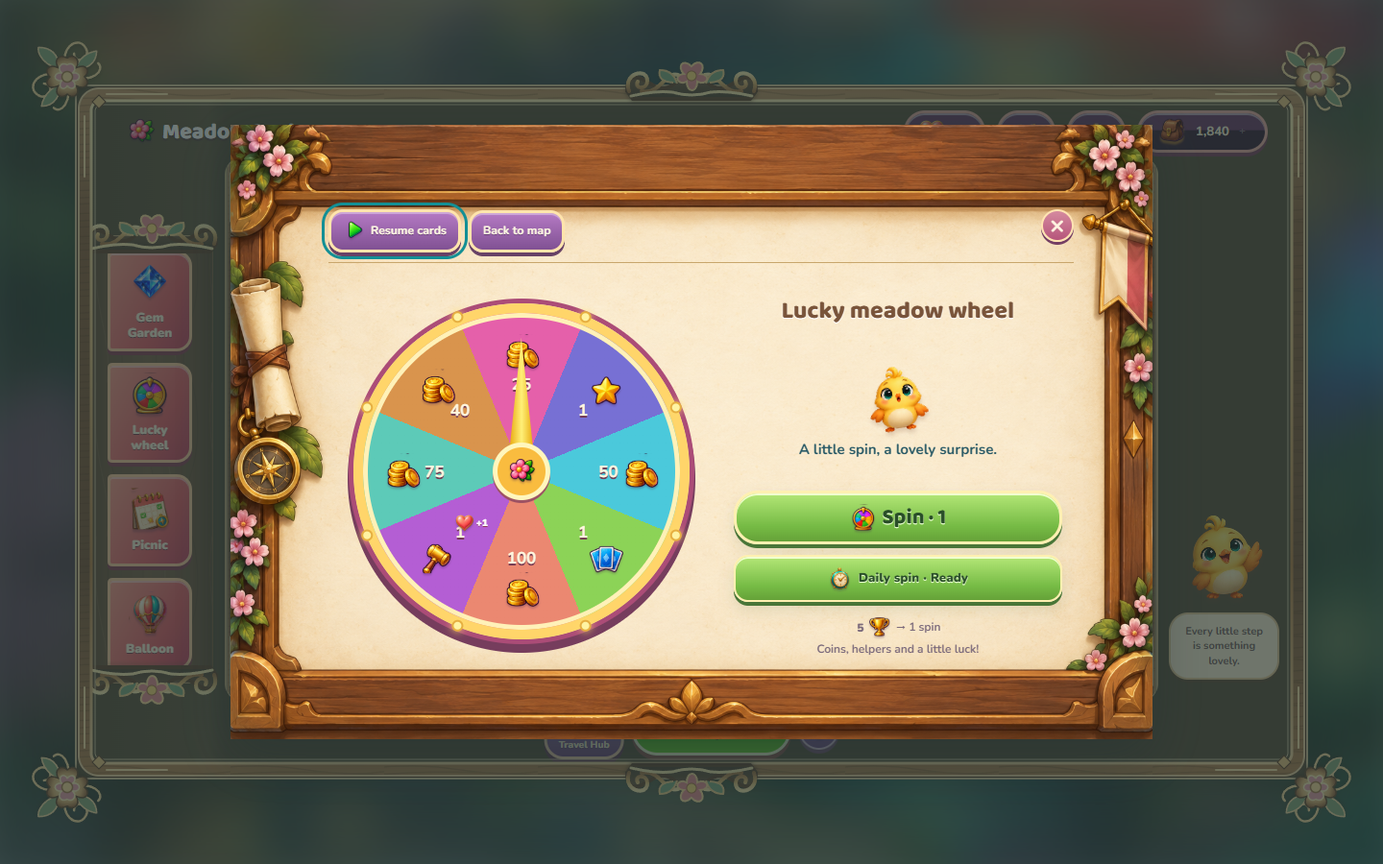
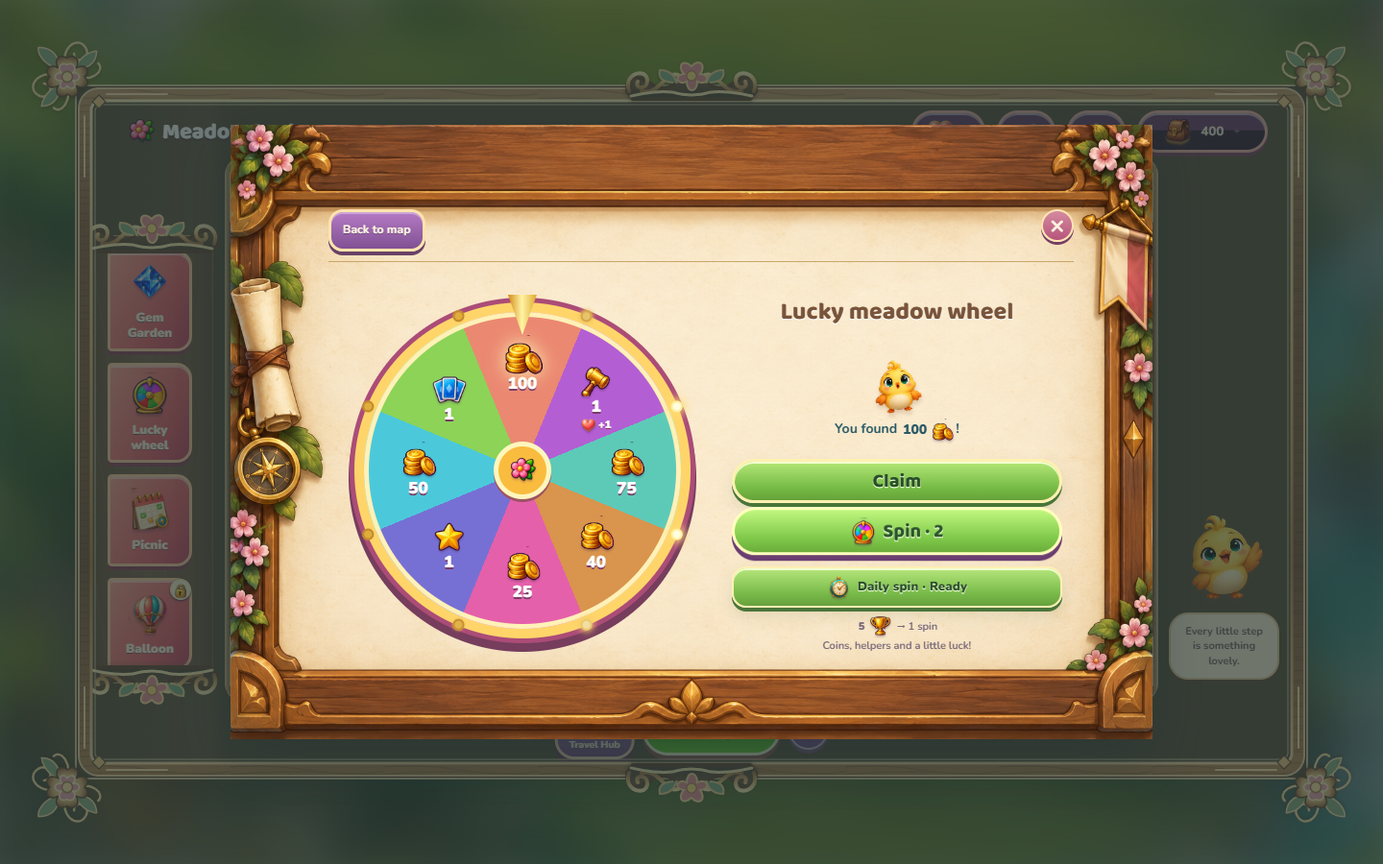
Spin the prize disc beneath a fixed pointer with chasing rim lights

diff --git a/web/index.html b/web/index.html
@@ -1,3 +1,3 @@
 <!doctype html>
 <!-- The fixed cabinet uses the shared browser/desktop modules. Styles load from base rules to surface-specific overrides; keep the import map aligned with the build version. -->
-<html lang="en"><head><meta charset="utf-8"><meta name="viewport" content="width=device-width,initial-scale=1"><meta name="meadow-build" content="2.5.5"><meta name="theme-color" content="#174d43"><title>Meadow Peaks · A little card adventure</title><link rel="icon" href="icon.svg" type="image/svg+xml"><link rel="stylesheet" href="style.css?v=2.5.5"><link rel="stylesheet" href="ui-theme.css?v=2.5.5"><link rel="stylesheet" href="map-ui.css?v=2.5.5"><link rel="stylesheet" href="help-ui.css?v=2.5.5"><link rel="stylesheet" href="progress-ui.css?v=2.5.5"><link rel="stylesheet" href="lives-ui.css?v=2.5.5"><link rel="stylesheet" href="settings-ui.css?v=2.5.5"><link rel="stylesheet" href="typography.css?v=2.5.5"><link rel="stylesheet" href="menu-polish.css?v=2.5.5"><link rel="stylesheet" href="mobile-polish.css?v=2.5.5"><link rel="stylesheet" href="story-play.css?v=2.5.5"><link rel="stylesheet" href="pip-home.css?v=2.5.5"><link rel="stylesheet" href="reference-polish.css?v=2.5.5"><link rel="stylesheet" href="adventure-restyle.css?v=2.5.5"><link rel="stylesheet" href="phone-ui.css?v=2.5.5"><link rel="stylesheet" href="framed-surfaces.css?v=2.5.5"><link rel="stylesheet" href="game-frame.css?v=2.5.5"><link rel="stylesheet" href="layout-720.css?v=2.5.5"><link rel="stylesheet" href="notice-board.css?v=2.5.5"><link rel="stylesheet" href="menu-boards.css?v=2.5.5"><link rel="stylesheet" href="menu-places.css?v=2.5.5"><link rel="stylesheet" href="guide-frames.css?v=2.5.5"><link rel="stylesheet" href="picnic-menu.css?v=2.5.5"><link rel="stylesheet" href="shop-feedback.css?v=2.5.5"></head><body><div class="landscape" aria-hidden="true"><div class="sun"></div><div class="cloud c1"></div><div class="cloud c2"></div><div class="hill far"></div><div class="hill middle"></div><div class="hill near"></div><span class="flower f1">✿</span><span class="flower f2">✿</span><span class="flower f3">✿</span></div><header><button data-action="home" class="brand">✿ <span>Meadow Peaks<small>A little card adventure</small></span></button><nav><button data-action="guide" aria-label="How to play">?</button><button data-action="settings" aria-label="Settings">⚙</button><button data-action="shop" class="wallet">● <span id="coins">300</span> <small>＋</small></button></nav></header><main id="app"></main><div id="toast" role="status" aria-live="polite"></div><dialog id="dialog"><div id="modal"></div><button class="close" data-action="close" aria-label="Close dialog">×</button></dialog><div id="sparks" aria-hidden="true"></div><footer>Made for unhurried adventures. <button data-action="guide">How to play</button></footer><script type="importmap">{"imports":{"./shop-feedback.mjs":"./shop-feedback.mjs?v=2.5.5","./generated-content.mjs":"./generated-content.mjs?v=2.5.5","./celebration-effects.mjs":"./celebration-effects.mjs?v=2.5.5","./ambient-attention.mjs":"./ambient-attention.mjs?v=2.5.5","./game-frame.mjs":"./game-frame.mjs?v=2.5.5","./wheel-view.mjs":"./wheel-view.mjs?v=2.5.5","./hand-progress.mjs":"./hand-progress.mjs?v=2.5.5","./play-surface.mjs":"./play-surface.mjs?v=2.5.5","./rank-shuffle.mjs":"./rank-shuffle.mjs?v=2.5.5","./story-layouts-v4.mjs":"./story-layouts-v4.mjs?v=2.5.5","./pip-home.mjs":"./pip-home.mjs?v=2.5.5","./play-actions.mjs":"./play-actions.mjs?v=2.5.5","./motion.mjs":"./motion.mjs?v=2.5.5","./win-summary.mjs":"./win-summary.mjs?v=2.5.5","./tableau-viewport.mjs":"./tableau-viewport.mjs?v=2.5.5","./pip-view.mjs":"./pip-view.mjs?v=2.5.5","./chest-tiers.mjs":"./chest-tiers.mjs?v=2.5.5","./chest-view.mjs":"./chest-view.mjs?v=2.5.5","./state-art.mjs":"./state-art.mjs?v=2.5.5","./level-presentation.mjs":"./level-presentation.mjs?v=2.5.5","./win-rewards.mjs":"./win-rewards.mjs?v=2.5.5","./play-viewport.mjs":"./play-viewport.mjs?v=2.5.5","./audio-controls.mjs":"./audio-controls.mjs?v=2.5.5","./resource-view.mjs":"./resource-view.mjs?v=2.5.5","./level-preview.mjs":"./level-preview.mjs?v=2.5.5","./lives-panel.mjs":"./lives-panel.mjs?v=2.5.5","./ui-markup.mjs":"./ui-markup.mjs?v=2.5.5","./feature-tutorials.mjs":"./feature-tutorials.mjs?v=2.5.5","./celebration-effects.mjs":"./celebration-effects.mjs?v=2.5.5","./semantic-icons.mjs":"./semantic-icons.mjs?v=2.5.5","./progress-view.mjs":"./progress-view.mjs?v=2.5.5","./lives.mjs":"./lives.mjs?v=2.5.5","./menu-journey.mjs":"./menu-journey.mjs?v=2.5.5","./audio-engine.mjs":"./audio-engine.mjs?v=2.5.5","./presentation-flow.mjs":"./presentation-flow.mjs?v=2.5.5","./chapter-collection.mjs":"./chapter-collection.mjs?v=2.5.5","./side-activities.mjs":"./side-activities.mjs?v=2.5.5","./card-orientation.mjs":"./card-orientation.mjs?v=2.5.5","./progression.mjs":"./progression.mjs?v=2.5.5","./mode-scenes.mjs":"./mode-scenes.mjs?v=2.5.5","./visual-cues.mjs":"./visual-cues.mjs?v=2.5.5","./ui-shell.mjs":"./ui-shell.mjs?v=2.5.5","./art-catalog.mjs":"./art-catalog.mjs?v=2.5.5","./customization.mjs":"./customization.mjs?v=2.5.5","./journey-guide.mjs":"./journey-guide.mjs?v=2.5.5","./overworld-view.mjs":"./overworld-view.mjs?v=2.5.5","./story-layouts-v3.mjs":"./story-layouts-v3.mjs?v=2.5.5","./chapter-worlds.mjs":"./chapter-worlds.mjs?v=2.5.5","./storage-consent.mjs":"./storage-consent.mjs?v=2.5.5","./adventure-ui.mjs":"./adventure-ui.mjs?v=2.5.5","./adventure-hand.mjs":"./adventure-hand.mjs?v=2.5.5","./adventure-systems.mjs":"./adventure-systems.mjs?v=2.5.5","./adventure-map.mjs":"./adventure-map.mjs?v=2.5.5","./app.mjs":"./app.mjs?v=2.5.5","./board-view.mjs":"./board-view.mjs?v=2.5.5","./chapter-scene.mjs":"./chapter-scene.mjs?v=2.5.5","./core.mjs":"./core.mjs?v=2.5.5","./game-art.mjs":"./game-art.mjs?v=2.5.5","./gem-art.mjs":"./gem-art.mjs?v=2.5.5","./gem-view.mjs":"./gem-view.mjs?v=2.5.5","./helper-discovery.mjs":"./helper-discovery.mjs?v=2.5.5","./session.mjs":"./session.mjs?v=2.5.5","./story-layouts-v2.mjs":"./story-layouts-v2.mjs?v=2.5.5","./story-layouts.mjs":"./story-layouts.mjs?v=2.5.5"}}</script><script type="module" src="app.mjs?v=2.5.5"></script></body></html>
+<html lang="en"><head><meta charset="utf-8"><meta name="viewport" content="width=device-width,initial-scale=1"><meta name="meadow-build" content="2.5.6"><meta name="theme-color" content="#174d43"><title>Meadow Peaks · A little card adventure</title><link rel="icon" href="icon.svg" type="image/svg+xml"><link rel="stylesheet" href="style.css?v=2.5.6"><link rel="stylesheet" href="ui-theme.css?v=2.5.6"><link rel="stylesheet" href="map-ui.css?v=2.5.6"><link rel="stylesheet" href="help-ui.css?v=2.5.6"><link rel="stylesheet" href="progress-ui.css?v=2.5.6"><link rel="stylesheet" href="lives-ui.css?v=2.5.6"><link rel="stylesheet" href="settings-ui.css?v=2.5.6"><link rel="stylesheet" href="typography.css?v=2.5.6"><link rel="stylesheet" href="menu-polish.css?v=2.5.6"><link rel="stylesheet" href="mobile-polish.css?v=2.5.6"><link rel="stylesheet" href="story-play.css?v=2.5.6"><link rel="stylesheet" href="pip-home.css?v=2.5.6"><link rel="stylesheet" href="reference-polish.css?v=2.5.6"><link rel="stylesheet" href="adventure-restyle.css?v=2.5.6"><link rel="stylesheet" href="phone-ui.css?v=2.5.6"><link rel="stylesheet" href="framed-surfaces.css?v=2.5.6"><link rel="stylesheet" href="game-frame.css?v=2.5.6"><link rel="stylesheet" href="layout-720.css?v=2.5.6"><link rel="stylesheet" href="notice-board.css?v=2.5.6"><link rel="stylesheet" href="menu-boards.css?v=2.5.6"><link rel="stylesheet" href="menu-places.css?v=2.5.6"><link rel="stylesheet" href="guide-frames.css?v=2.5.6"><link rel="stylesheet" href="picnic-menu.css?v=2.5.6"><link rel="stylesheet" href="shop-feedback.css?v=2.5.6"><link rel="stylesheet" href="wheel-motion.css?v=2.5.6"></head><body><div class="landscape" aria-hidden="true"><div class="sun"></div><div class="cloud c1"></div><div class="cloud c2"></div><div class="hill far"></div><div class="hill middle"></div><div class="hill near"></div><span class="flower f1">✿</span><span class="flower f2">✿</span><span class="flower f3">✿</span></div><header><button data-action="home" class="brand">✿ <span>Meadow Peaks<small>A little card adventure</small></span></button><nav><button data-action="guide" aria-label="How to play">?</button><button data-action="settings" aria-label="Settings">⚙</button><button data-action="shop" class="wallet">● <span id="coins">300</span> <small>＋</small></button></nav></header><main id="app"></main><div id="toast" role="status" aria-live="polite"></div><dialog id="dialog"><div id="modal"></div><button class="close" data-action="close" aria-label="Close dialog">×</button></dialog><div id="sparks" aria-hidden="true"></div><footer>Made for unhurried adventures. <button data-action="guide">How to play</button></footer><script type="importmap">{"imports":{"./wheel-motion.mjs":"./wheel-motion.mjs?v=2.5.6","./shop-feedback.mjs":"./shop-feedback.mjs?v=2.5.6","./generated-content.mjs":"./generated-content.mjs?v=2.5.6","./celebration-effects.mjs":"./celebration-effects.mjs?v=2.5.6","./ambient-attention.mjs":"./ambient-attention.mjs?v=2.5.6","./game-frame.mjs":"./game-frame.mjs?v=2.5.6","./wheel-view.mjs":"./wheel-view.mjs?v=2.5.6","./hand-progress.mjs":"./hand-progress.mjs?v=2.5.6","./play-surface.mjs":"./play-surface.mjs?v=2.5.6","./rank-shuffle.mjs":"./rank-shuffle.mjs?v=2.5.6","./story-layouts-v4.mjs":"./story-layouts-v4.mjs?v=2.5.6","./pip-home.mjs":"./pip-home.mjs?v=2.5.6","./play-actions.mjs":"./play-actions.mjs?v=2.5.6","./motion.mjs":"./motion.mjs?v=2.5.6","./win-summary.mjs":"./win-summary.mjs?v=2.5.6","./tableau-viewport.mjs":"./tableau-viewport.mjs?v=2.5.6","./pip-view.mjs":"./pip-view.mjs?v=2.5.6","./chest-tiers.mjs":"./chest-tiers.mjs?v=2.5.6","./chest-view.mjs":"./chest-view.mjs?v=2.5.6","./state-art.mjs":"./state-art.mjs?v=2.5.6","./level-presentation.mjs":"./level-presentation.mjs?v=2.5.6","./win-rewards.mjs":"./win-rewards.mjs?v=2.5.6","./play-viewport.mjs":"./play-viewport.mjs?v=2.5.6","./audio-controls.mjs":"./audio-controls.mjs?v=2.5.6","./resource-view.mjs":"./resource-view.mjs?v=2.5.6","./level-preview.mjs":"./level-preview.mjs?v=2.5.6","./lives-panel.mjs":"./lives-panel.mjs?v=2.5.6","./ui-markup.mjs":"./ui-markup.mjs?v=2.5.6","./feature-tutorials.mjs":"./feature-tutorials.mjs?v=2.5.6","./celebration-effects.mjs":"./celebration-effects.mjs?v=2.5.6","./semantic-icons.mjs":"./semantic-icons.mjs?v=2.5.6","./progress-view.mjs":"./progress-view.mjs?v=2.5.6","./lives.mjs":"./lives.mjs?v=2.5.6","./menu-journey.mjs":"./menu-journey.mjs?v=2.5.6","./audio-engine.mjs":"./audio-engine.mjs?v=2.5.6","./presentation-flow.mjs":"./presentation-flow.mjs?v=2.5.6","./chapter-collection.mjs":"./chapter-collection.mjs?v=2.5.6","./side-activities.mjs":"./side-activities.mjs?v=2.5.6","./card-orientation.mjs":"./card-orientation.mjs?v=2.5.6","./progression.mjs":"./progression.mjs?v=2.5.6","./mode-scenes.mjs":"./mode-scenes.mjs?v=2.5.6","./visual-cues.mjs":"./visual-cues.mjs?v=2.5.6","./ui-shell.mjs":"./ui-shell.mjs?v=2.5.6","./art-catalog.mjs":"./art-catalog.mjs?v=2.5.6","./customization.mjs":"./customization.mjs?v=2.5.6","./journey-guide.mjs":"./journey-guide.mjs?v=2.5.6","./overworld-view.mjs":"./overworld-view.mjs?v=2.5.6","./story-layouts-v3.mjs":"./story-layouts-v3.mjs?v=2.5.6","./chapter-worlds.mjs":"./chapter-worlds.mjs?v=2.5.6","./storage-consent.mjs":"./storage-consent.mjs?v=2.5.6","./adventure-ui.mjs":"./adventure-ui.mjs?v=2.5.6","./adventure-hand.mjs":"./adventure-hand.mjs?v=2.5.6","./adventure-systems.mjs":"./adventure-systems.mjs?v=2.5.6","./adventure-map.mjs":"./adventure-map.mjs?v=2.5.6","./app.mjs":"./app.mjs?v=2.5.6","./board-view.mjs":"./board-view.mjs?v=2.5.6","./chapter-scene.mjs":"./chapter-scene.mjs?v=2.5.6","./core.mjs":"./core.mjs?v=2.5.6","./game-art.mjs":"./game-art.mjs?v=2.5.6","./gem-art.mjs":"./gem-art.mjs?v=2.5.6","./gem-view.mjs":"./gem-view.mjs?v=2.5.6","./helper-discovery.mjs":"./helper-discovery.mjs?v=2.5.6","./session.mjs":"./session.mjs?v=2.5.6","./story-layouts-v2.mjs":"./story-layouts-v2.mjs?v=2.5.6","./story-layouts.mjs":"./story-layouts.mjs?v=2.5.6"}}</script><script type="module" src="app.mjs?v=2.5.6"></script></body></html>

diff --git a/web/wheel-motion.css b/web/wheel-motion.css
@@ -1,0 +1,66 @@
+/* The decorative furniture is stationary; only the inner disc owns the sector painting. */
+.wheel-panel>.prize-wheel {background:#fff0a1;isolation:isolate}
+.wheel-rotor {
+ position:absolute;inset:0;border-radius:50%;transform-origin:50% 50%;
+ background:conic-gradient(from -22.5deg,#e560aa 0deg 45deg,#7770d4 45deg 90deg,#4bc9db 90deg 135deg,#8cd357 135deg 180deg,#eb8871 180deg 225deg,#b45ed4 225deg 270deg,#5dcab8 270deg 315deg,#d9944d 315deg 360deg);
+ box-shadow:inset 0 0 0 5px #fff1b8;will-change:transform;
+}
+.wheel-rotor>span {
+ position:absolute;left:50%;top:50%;width:84px;height:76px;
+ transform:translate(-50%,-50%) rotate(calc(var(--segment)*45deg)) translateY(calc(var(--wheel-size,350px)*-.31)) rotate(calc(var(--segment)*-45deg));
+ font:900 17px var(--font-ui);color:white;text-shadow:0 2px #793b66;
+}
+.wheel-label {display:flex;width:100%;height:100%;align-items:center;justify-content:center;flex-direction:column;gap:1px;rotate:calc(var(--landed-angle,0deg)*-1)}
+.wheel-label>small {font-size:17px;color:white;font-weight:900;line-height:1.2}
+.wheel-label>.wheel-heart {position:static;rotate:none;font-size:11px;line-height:16px}
+.wheel-label>.wheel-heart .game-icon {width:16px;height:16px}
+.prize-wheel>.wheel-needle {
+ top:-18px;bottom:auto;left:calc(50% - 15px);width:30px;height:42px;
+ transform:none;transform-origin:center;clip-path:polygon(0 0,100% 0,50% 100%);
+ background:linear-gradient(90deg,#d28b17,#fff4a5 48%,#e0a82d);
+ filter:drop-shadow(0 3px 1px #783d45);z-index:5;pointer-events:none;
+}
+.prize-wheel>.wheel-lamp {
+ z-index:4;animation:wheel-rim-chase 2.4s linear infinite;
+ animation-delay:calc(var(--bulb)*-.3s);
+}
+.prize-wheel.is-spinning>.wheel-lamp {animation-duration:1.2s;animation-delay:calc(var(--bulb)*-.15s)}
+.prize-wheel.wheel-won>.wheel-lamp {animation-duration:1.8s;animation-delay:calc(var(--bulb)*-.225s)}
+.wheel-rotor>.is-winning .wheel-label>.game-icon {filter:drop-shadow(0 0 8px #fff6b3);scale:1.14}
+/* Keep the result, Claim and both spin buttons beside the complete disc, clear of the painted rim. */
+#dialog .wheel-panel{gap:10px 20px;padding-bottom:8px}
+#dialog .wheel-panel>.panel-heading{min-height:38px;padding:0}
+#dialog .wheel-controls{gap:8px}
+#dialog .wheel-controls .wheel-pip{height:54px}
+#dialog .wheel-controls .wheel-pip>.pip-sprite{width:60px;height:60px}
+#dialog .wheel-controls #wheel-result{min-height:34px;font-size:14px}
+#dialog .wheel-controls .story-play{min-height:46px;font-size:20px;padding:8px 14px}
+#dialog .wheel-controls [data-action=timedWheel]{min-height:40px;font-size:13px;padding:7px 12px}
+#dialog .wheel-controls .meta{margin:0;font-size:11px;line-height:1.4}
+@container dialog (min-width:651px){
+ #dialog .dialog-content:has(>.bird-guide[data-guide-panel=lesson]) .wheel-panel>.prize-wheel{--wheel-size:260px;margin-block:16px}
+}
+/* Pip already appears in the tutorial; a second mascot would consume the wheel's safe area. */
+#dialog .dialog-content:has(>.bird-guide[data-guide-panel=lesson]) .wheel-controls .wheel-pip{display:none}
+/* If the menu is reopened mid-spin, keep its replacement disc lively until the saved spin finishes. */
+.prize-wheel.is-spinning>.wheel-rotor:not([data-animating]) {animation:wheel-waiting 1.1s linear infinite}
+@keyframes wheel-rim-chase {
+ 0%,55%,100%{background:#dfad3b;box-shadow:0 0 2px #e7ad47;border-color:#c38a2c}
+ 12%,32%{background:#fffde0;box-shadow:0 0 10px 3px #ffdc75;border-color:#fff1a0}
+}
+@keyframes wheel-waiting {to{transform:rotate(360deg)}}
+@media(prefers-reduced-motion:reduce){.prize-wheel>.wheel-lamp,.prize-wheel>.wheel-rotor{animation:none!important}}
+.reduced .prize-wheel>.wheel-lamp,.reduced .prize-wheel>.wheel-rotor{animation:none!important}
+
+/* Narrow dialogs stack controls beneath a disc that fits entirely on the painted paper. */
+@container dialog (max-width:650px){
+ .wheel-panel{display:flex;flex-direction:column;gap:12px}
+ .wheel-panel>.panel-heading{align-self:stretch}
+ .wheel-panel>.prize-wheel{--wheel-size:min(300px,calc(100cqw - 96px));width:var(--wheel-size);height:var(--wheel-size);margin:24px auto}
+ .wheel-rotor>span{width:64px;height:58px}
+ .wheel-label>.game-icon{--icon-size:28px!important;width:28px;height:28px}
+ .wheel-label>small{font-size:13px}
+ .wheel-label>.wheel-heart{font-size:9px;line-height:13px}
+ .wheel-label>.wheel-heart .game-icon{width:13px;height:13px}
+ .wheel-controls{width:100%;gap:10px}
+}

diff --git a/scripts/test_wheel_disc.py b/scripts/test_wheel_disc.py
@@ -1,0 +1,61 @@
+"""The disc spins under a fixed pointer, rim lights chase and the saved prize matches its landing."""
+import asyncio,os
+from pathlib import Path
+from playwright.async_api import async_playwright
+
+# Use the normal dispatcher to include dialog lifecycle and spin guards.
+async def action(page,name):
+ await page.evaluate("a=>{const b=document.createElement('button');b.dataset.action=a;document.body.append(b);b.click();b.remove()}",name)
+
+# Check actual saved rewards, repeat spins, reopening mid-spin and reduced-motion presentation.
+async def main():
+ out=Path('artifacts/wheel-disc');out.mkdir(exist_ok=True)
+ async with async_playwright() as p:
+  browser=await p.chromium.launch(channel='msedge',headless=True)
+  for reduced in [False,True]:
+   page=await browser.new_page(viewport={'width':1440,'height':900},reduced_motion='reduce' if reduced else 'no-preference');errors=[];page.on('pageerror',lambda e:errors.append(str(e)))
+   await page.add_init_script("localStorage.setItem('meadow-storage-consent','yes')")
+   await page.goto(os.environ.get('MEADOW_TEST_URL','http://127.0.0.1:8765/'))
+   await page.evaluate("async()=>{const {Session}=await import('./session.mjs'),{features}=await import('./journey-guide.mjs');const s=new Session();s.p.Garden=10;s.p.Coins=300;s.p.Unlocked=12;s.p.HighestPlayedLevel=12;s.p.GuideSeen=features.map(f=>f.id);s.save()}");await page.reload();await action(page,'wheel')
+   await page.evaluate("async()=>{const {Session}=await import('./session.mjs');const spin=Session.prototype.spinWheel;let i=0;Session.prototype.spinWheel=function(){return spin.call(this,[4,7,0][i++])}}")
+   assert await page.locator('.wheel-lamp').count()==8
+   assert await page.locator('.wheel-lamp').evaluate_all("(es,reduced)=>es.every(e=>reduced?getComputedStyle(e).animationName==='none':e.getAnimations().length>0)",reduced)
+   await page.locator('[data-action=spinWheel]').click()
+   if not reduced:
+    await page.wait_for_timeout(150)
+    assert await page.locator('.wheel-rotor').evaluate('e=>e.getAnimations().length>0')
+    assert await page.locator('.wheel-needle').evaluate("e=>getComputedStyle(e).transform==='none'&&e.getAnimations().length===0")
+    assert await page.locator('[data-action=spinWheel]').is_disabled()
+    await page.screenshot(path=str(out/'spinning.png'))
+   await page.locator('[data-action=claimWheel]').wait_for()
+   assert await page.locator('.prize-wheel').get_attribute('data-winning-index')=='4'
+   assert await page.locator('.wheel-rotor').evaluate('e=>(Number(e.dataset.angle)+4*45)%360===0')
+   assert '100' in await page.locator('#wheel-result').inner_text()
+   assert await page.evaluate("JSON.parse(localStorage.getItem('meadow-peaks-profile')).Coins")==400
+   assert await page.locator('.prize-wheel').evaluate("e=>{const a=e.getBoundingClientRect(),b=e.closest('.dialog-content').getBoundingClientRect();return a.left>=b.left+6&&a.right<=b.right-6&&a.top>=b.top+12&&a.bottom<=b.bottom-8}"),'Wheel clips the painted rim'
+   await page.screenshot(path=str(out/f'landed-{reduced}.png'))
+   await page.locator('[data-action=spinWheel]').click();await page.locator('[data-action=claimWheel]').wait_for()
+   assert await page.locator('.prize-wheel').get_attribute('data-winning-index')=='7'
+   assert await page.locator('.wheel-rotor').evaluate('e=>(Number(e.dataset.angle)+7*45)%360===0')
+   assert await page.evaluate("JSON.parse(localStorage.getItem('meadow-peaks-profile')).Coins")==440
+   await page.locator('[data-action=spinWheel]').click()
+   if not reduced:await action(page,'close');await action(page,'wheel')
+   await page.locator('[data-action=claimWheel]').wait_for()
+   assert await page.locator('.prize-wheel').get_attribute('data-winning-index')=='0'
+   assert await page.evaluate("JSON.parse(localStorage.getItem('meadow-peaks-profile')).Coins")==465
+   assert await page.locator('[data-action=spinWheel]').is_disabled()
+   await action(page,'birdTopic:wheel');await action(page,'birdGo')
+   assert await page.locator('.bird-guide.in-panel').count()==1
+   assert await page.locator('.prize-wheel').evaluate("e=>e.getBoundingClientRect().bottom<=e.closest('.dialog-content').getBoundingClientRect().bottom-8"),'Tutorial cuts off the wheel'
+   await page.screenshot(path=str(out/f'tutorial-{reduced}.png'))
+   await page.locator('[data-action=timedWheel]').click();await page.locator('[data-action=claimWheel]').wait_for()
+   index=int(await page.locator('.prize-wheel').get_attribute('data-winning-index'))
+   assert await page.locator('.wheel-rotor').evaluate('(e,i)=>(Number(e.dataset.angle)+i*45)%360===0',index)
+   assert await page.evaluate("JSON.parse(localStorage.getItem('meadow-peaks-profile')).WheelSpinsUsed")==3,'Daily spin consumed an earned spin'
+   assert await page.locator('[data-action=timedWheel]').is_disabled()
+   assert 'Ready' not in await page.locator('[data-action=timedWheel]').inner_text()
+   assert await page.locator('.wheel-controls button').evaluate_all("es=>es.every(e=>{const a=e.getBoundingClientRect(),b=e.closest('.dialog-content').getBoundingClientRect();return a.top>=b.top&&a.bottom<=b.bottom-4})"),'Result buttons clip with the tutorial open'
+   assert not errors,errors;await page.close()
+  await browser.close()
+ print('PASS: rotating disc/fixed pointer, eight animated rim lights, exact saved prize alignment, repeat spins, reopen recovery and static reduced motion.')
+asyncio.run(main())

diff --git a/scripts/test_presentation_flow.py b/scripts/test_presentation_flow.py
@@ -37,7 +37,8 @@ async def main():
   assert await page.locator('.prize-wheel').evaluate("e=>getComputedStyle(e).transform==='none'")
   await page.locator('[data-action=claimWheel]').wait_for(timeout=10000)
   await page.screenshot(path='artifacts/study-wheel.png')
-  assert await page.locator('.wheel-needle').evaluate("e=>getComputedStyle(e).transform!=='none'")
+  assert await page.locator('.wheel-needle').evaluate("e=>getComputedStyle(e).transform==='none'")
+  assert await page.locator('.wheel-rotor').evaluate("e=>Number(e.dataset.angle)>=1800")
   await page.locator('[data-action=claimWheel]').click()
   # Leaving during the coin flight must not close a subsequently opened menu.
   last=await page.evaluate("""async()=>{const {Session}=await import('./session.mjs');const s=new Session();s.start(1,false,12345);const path=s.hand.Deal.Solution;for(const step of path.slice(0,-1)){if(step.Index<0){s.draw();s.tick(2);}else s.play(step.Index);}s.hand.s.Earned.Packs=[1];s.save();return path.at(-1).Index;}""")
@@ -46,12 +47,12 @@ async def main():
   await page.locator('[data-action="preview:1"]').click();await page.locator('[data-action="level:1"]').click()
   await page.locator(f'[data-action="card:{last}"]').click();await page.locator('.completion-stage').click()
   await page.locator('[data-action=showWinRewards]').click();await page.locator('[data-action=revealAllGifts]').click()
-  await page.locator('#claim-win').click();await page.locator('.shell-close').click();await page.locator('[data-action=settings]').click()
+  await page.locator('#claim-win').click();await page.locator('.shell-close').click();await page.locator('header [data-action=home]').click();await page.locator('header [data-action=settings]').click()
   await page.wait_for_timeout(1100)
   assert await page.locator('[data-setting=Sound]').is_visible(),'Old Claim closed the new settings menu'
   await page.emulate_media(reduced_motion='reduce')
   assert await page.evaluate("async()=>{const {presentCompletion}=await import('./presentation-flow.mjs');let calls=0;await presentCompletion({Stock:[1,2]},()=>true,()=>calls++);return calls===1&&!document.querySelector('.completion-stage')}")
   assert not errors,errors
   await browser.close()
- print('PASS: real final move, skip, results, reward reveal, double Claim preserves balance, stationary wheel and rotating pointer.')
+ print('PASS: real final move, skip, results, reward reveal, double Claim preserves balance, rotating disc and fixed pointer.')
 asyncio.run(main())

diff --git a/src/MeadowPeaks.Core/Content/InterfaceCatalog.cs b/src/MeadowPeaks.Core/Content/InterfaceCatalog.cs
@@ -152,7 +152,7 @@ public static class InterfaceCatalog
     public static readonly IReadOnlyDictionary<string, string[][]> FeatureTutorials = new Dictionary<string, string[][]>
     {
         ["garden"] = [["Pick a gem, then a neighbor. Connect three or more.", ".gems"], ["Matches earn coins. Every ten successful swaps earns a heart.", ".subhead"], ["Use your coins in the helper shop, then resume your cards.", "[data-action=\"shop\"]"]],
-        ["wheel"] = [["Your available spins are shown on the Spin button.", "[data-action=\"spinWheel\"]"], ["The pointer lands on your prize. Claim appears when it settles.", ".prize-wheel"]],
+        ["wheel"] = [["Your available spins are shown on the Spin button.", "[data-action=\"spinWheel\"]"], ["The wheel stops beneath the pointer. Claim appears when it settles.", ".prize-wheel"]],
         ["missions"] = [["Each task shows your progress and the reward you can earn.", ".picnic-progress progress"], ["When a task is full, choose Collect reward to reveal the next one.", ".picnic-claim"]],
         ["album"] = [["Each collection shows its sticker count. Pick one to look inside.", ".album-categories"], ["Open your earned packs here. Duplicate stickers become tokens.", "[data-action=\"ev:pack\"]"], ["Trade duplicate tokens for more packs.", "[data-action=\"ev:tokenShop\"]"]],
         ["tournament"] = [["Collect trophy cards and win the hand to keep them.", ".event-tournament"], ["Fill a target, then collect its reward.", ".event-row button"]],

diff --git a/docs/MENU-FRAMES.md b/docs/MENU-FRAMES.md
@@ -17,3 +17,9 @@ Adventure and collection menus now use the same fixed-surface model as Settings:
 ## Shop receipts (2.5.5)
 
 A saved helper purchase updates the existing shelf nodes instead of rebuilding the menu. The selected card briefly shows Bought!, a floating +1 and an item bounce; its owned count is highlighted. A local receipt message remains readable above the shelf. Reduced motion keeps the text confirmation without animated movement. Receipt timers are independent per item and restart for repeat purchases; they never grant items or debit coins. `test_shop_feedback.py` checks real transactions, stable cards, repeated purchases, affordability and receipt cleanup.
+
+## Spinning wheel (2.5.6)
+
+The sector painting and prize labels now live on one rotating disc. The pointer, hub and eight rim lamps stay stationary. Each spin makes at least five full turns, eases to the saved prize beneath the pointer, and highlights the winning segment. The lamps chase around the rim, speed up during a spin and celebrate its landing; reduced motion keeps the lights steady and lands immediately. The label group is counter-rotated after landing for readability. Reopening the menu retains the last result, and a pending saved spin can finish in its replacement panel without changing another open menu.
+
+`wheel-motion.test.mjs` checks all sector angles over repeated spins. `test_wheel_disc.py` checks the moving disc/fixed pointer, rim animations, saved rewards, repeat/reopened/daily spins, the daily cooldown label, reduced motion and the tutorial’s available space. Presentation feedback never grants an additional prize.
